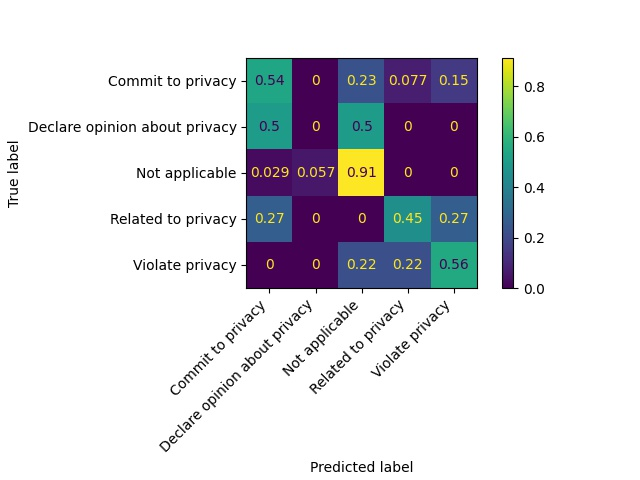
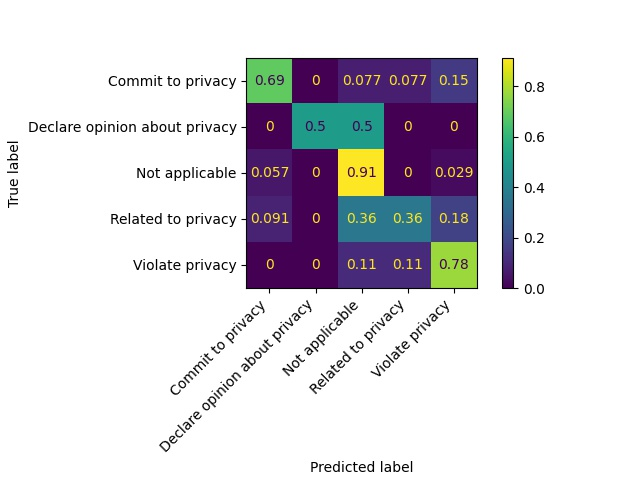
svc test set one vs one c 0.05

Changed region(s): [[0.375, 0.125, 0.75, 0.625], [0.375, 0.4062, 0.4688, 0.5312], [0.6562, 0.3438, 0.75, 0.375]]

diff --git a/AIclassifier.py b/AIclassifier.py
@@ -4,7 +4,7 @@ from sklearn.model_selection import GridSearchCV
 from imblearn.under_sampling import RandomUnderSampler 
 from imblearn.over_sampling import SMOTE
 from sklearn.linear_model import LinearRegression,SGDClassifier, RidgeClassifier
-from sklearn.multiclass import OneVsRestClassifier
+from sklearn.multiclass import OneVsRestClassifier, OneVsOneClassifier
 from sklearn.svm import LinearSVC
 from sklearn.preprocessing import StandardScaler
 from sklearn.pipeline import make_pipeline
@@ -240,7 +240,7 @@ test_labels_primary = create_labels_array(labels_test)
 #ridge_classifier = RidgeClassifier()
 #sgd_classifier = make_pipeline(StandardScaler(),SGDClassifier(max_iter=1000, tol=1e-3))#, random_state=1111111))
 #svc_classifier = make_pipeline(StandardScaler(), OneVsRestClassifier(LinearSVC(dual=False,random_state=None, tol=1e-5, C=0.05)))
-svc_classifier = make_pipeline(StandardScaler(), OneVsRestClassifier(LinearSVC(dual=False,random_state=None, tol=1e-5, C=0.05)))
+svc_classifier = make_pipeline(StandardScaler(), OneVsOneClassifier(LinearSVC(dual=False,random_state=None, tol=1e-5, C=0.05)))
 
 # FLAG - CHECK WHICH CONFIGURATIONS SHOULD BE HERE - checked
 
